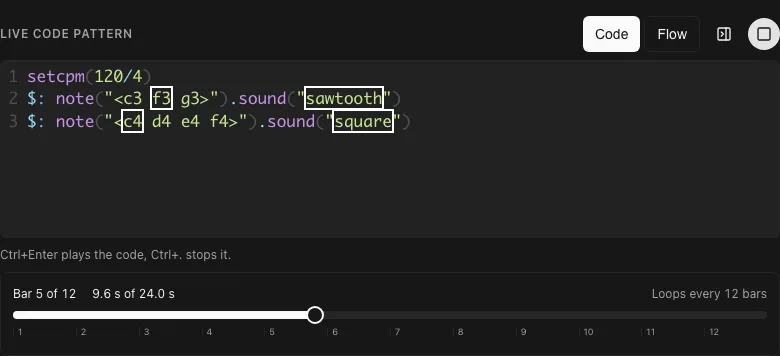
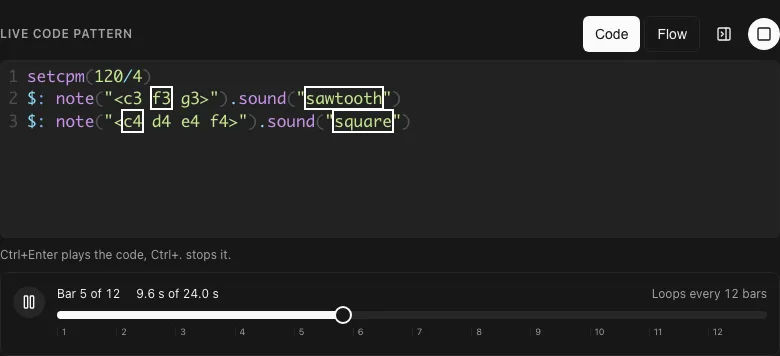
feat: pause button beside the Strudel timeline

diff --git a/src/views/Tools/StrudelEditor/timeline/StrudelTimeline.vue b/src/views/Tools/StrudelEditor/timeline/StrudelTimeline.vue
@@ -1,5 +1,7 @@
 <script setup lang="ts">
 import { computed } from 'vue'
+import { Pause, Play } from 'lucide-vue-next'
+import IconButton from '@/components/IconButton.vue'
 import { Slider } from '@/components/ui/slider'
 import { STRUDEL_TIMELINE_MAX_LOOP_BARS, STRUDEL_TIMELINE_SEEK_STEP } from '../config'
 
@@ -9,11 +11,24 @@ const props = defineProps<{
   cyclesPerSecond: number
   loopBars: number | null
   loopMeasured: boolean
+  isPlaying: boolean
 }>()
 
 const emit = defineEmits<{
   seek: [cycle: number]
+  play: []
+  pause: []
 }>()
+
+const playPauseLabel = computed(() => (props.isPlaying ? 'Pause' : 'Play from here'))
+
+const onPlayPausePressed = (): void => {
+  if (props.isPlaying) {
+    emit('pause')
+    return
+  }
+  emit('play')
+}
 
 const barStarts = computed(() =>
   Array.from({ length: props.timelineBars }, (_, barIndex) => ({
@@ -44,12 +59,24 @@ const onSliderMoved = (values: number[] | undefined): void => {
 
 <template>
   <section class="strudel-timeline" aria-label="Timeline">
+    <IconButton
+      class="strudel-timeline__play-pause"
+      size="md"
+      variant="outline"
+      :title="playPauseLabel"
+      :aria-label="playPauseLabel"
+      @click="onPlayPausePressed"
+    >
+      <Pause v-if="isPlaying" aria-hidden="true" />
+      <Play v-else aria-hidden="true" />
+    </IconButton>
     <p class="strudel-timeline__readout">
       <span>Bar {{ Math.floor(playheadCycle) + 1 }} of {{ timelineBars }}</span>
       <span>{{ formatSeconds(playheadCycle) }} s of {{ formatSeconds(timelineBars) }} s</span>
       <span class="strudel-timeline__loop">{{ loopLabel }}</span>
     </p>
     <Slider
+      class="strudel-timeline__track"
       :model-value="[playheadCycle]"
       :min="0"
       :max="timelineBars"
@@ -72,15 +99,30 @@ const onSliderMoved = (values: number[] | undefined): void => {
 
 <style scoped>
 .strudel-timeline {
-  display: flex;
-  flex-direction: column;
-  gap: var(--spacing-2);
+  display: grid;
+  grid-template-columns: max-content minmax(0, 1fr);
+  grid-template-areas:
+    'play-pause readout'
+    'play-pause track'
+    '. bars';
+  align-items: center;
+  gap: var(--spacing-2) var(--spacing-3);
   padding: var(--spacing-3);
   border: 1px solid var(--color-border);
   border-radius: var(--radius-lg);
 }
 
+.strudel-timeline__play-pause {
+  grid-area: play-pause;
+  border-radius: var(--radius-full);
+}
+
+.strudel-timeline__track {
+  grid-area: track;
+}
+
 .strudel-timeline__readout {
+  grid-area: readout;
   display: flex;
   flex-wrap: wrap;
   gap: var(--spacing-1) var(--spacing-4);
@@ -96,6 +138,7 @@ const onSliderMoved = (values: number[] | undefined): void => {
 }
 
 .strudel-timeline__bars {
+  grid-area: bars;
   position: relative;
   height: var(--spacing-4);
   margin: 0;

diff --git a/src/views/Tools/StrudelEditor/timeline/useStrudelTimeline.ts b/src/views/Tools/StrudelEditor/timeline/useStrudelTimeline.ts
@@ -28,6 +28,8 @@ type StrudelTimelineState = {
   applyStartCycle: () => void
   /** Reads the loop and tempo of the pattern that just started or updated. */
   measurePlayedPattern: () => void
+  /** Makes where playback is now the start, so stopping there is a pause that Play resumes. */
+  holdPlayingPosition: () => void
 }
 
 /**
@@ -101,6 +103,14 @@ export const useStrudelTimeline = (hooks: StrudelTimelineHooks): StrudelTimeline
     cyclesPerSecond.value = playback.readPosition().cyclesPerSecond
   }
 
+  const holdPlayingPosition = (): void => {
+    const position = hooks.getPlayback()?.readPosition()
+    if (position !== undefined) {
+      startCycle.value = position.cycle
+      playheadCycle.value = wrapIntoTimeline(position.cycle)
+    }
+  }
+
   return {
     startCycle,
     playheadCycle,
@@ -110,6 +120,7 @@ export const useStrudelTimeline = (hooks: StrudelTimelineHooks): StrudelTimeline
     timelineBars,
     seekToCycle,
     applyStartCycle,
-    measurePlayedPattern
+    measurePlayedPattern,
+    holdPlayingPosition
   }
 }

diff --git a/src/views/Tools/StrudelEditor/StrudelEditor.vue b/src/views/Tools/StrudelEditor/StrudelEditor.vue
@@ -70,7 +70,8 @@ const {
   cyclesPerSecond,
   loopBars,
   loopMeasured,
-  seekToCycle
+  seekToCycle,
+  holdPlayingPosition
 } = useStrudelEditor()
 
 const {
@@ -219,6 +220,12 @@ const onStopRequested = (): void => {
   void stopPattern()
 }
 
+// A pause is a stop that keeps where it was, so the next Play carries on from there.
+const onPauseRequested = (): void => {
+  holdPlayingPosition()
+  onStopRequested()
+}
+
 // One button above the editor: Play when idle, Stop while playing, and Update once the code has
 // changed since it started, which swaps the old pattern for the new one.
 const playButtonAction = computed(() => {
@@ -352,7 +359,10 @@ onBeforeUnmount(() => {
         :cycles-per-second="cyclesPerSecond"
         :loop-bars="loopBars"
         :loop-measured="loopMeasured"
+        :is-playing="editorStatus === 'playing'"
         @seek="seekToCycle"
+        @play="onPlayRequested"
+        @pause="onPauseRequested"
       />
     </section>
 

diff --git a/src/views/Tools/StrudelEditor/useStrudelEditor.test.ts b/src/views/Tools/StrudelEditor/useStrudelEditor.test.ts
@@ -961,6 +961,29 @@ describe('useStrudelEditor', () => {
     expect(loopBars.value).toBe(2)
   })
 
+  it('pauses at the playing position and resumes from it on the next Play', async () => {
+    // Arrange
+    const playback = {
+      ...buildSuccessfulPlayback(),
+      readPosition: vi.fn(() => ({ cycle: 6.5, cyclesPerSecond: 0.5 }))
+    }
+    const { playPattern, stopPattern, holdPlayingPosition, editorStatus } = useStrudelEditor({
+      initialExamples: buildExampleList(),
+      playbackLoader: async () => playback
+    })
+    await playPattern()
+
+    // Act
+    holdPlayingPosition()
+    await stopPattern()
+    await playPattern()
+
+    // Assert
+    expect(playback.stopPlayback).toHaveBeenCalledTimes(1)
+    expect(playback.seekToCycle).toHaveBeenLastCalledWith(6.5)
+    expect(editorStatus.value).toBe('playing')
+  })
+
   it('stops playback and returns to idle', async () => {
     // Arrange
     const playback = buildSuccessfulPlayback()

diff --git a/src/views/Tools/StrudelEditor/timeline/useStrudelTimeline.test.ts b/src/views/Tools/StrudelEditor/timeline/useStrudelTimeline.test.ts
@@ -129,6 +129,20 @@ describe('useStrudelTimeline', () => {
     expect(timeline.playheadCycle.value).toBe(1.5)
   })
 
+  it('holds the playing position as the start, so a pause resumes where it left off', () => {
+    // Arrange
+    const playback = buildPlayback(6.5, 4)
+    const { timeline } = buildTimeline(playback, 'playing')
+    timeline.measurePlayedPattern()
+
+    // Act
+    timeline.holdPlayingPosition()
+
+    // Assert
+    expect(timeline.startCycle.value).toBe(6.5)
+    expect(timeline.playheadCycle.value).toBe(2.5)
+  })
+
   it('returns the playhead to the start cycle when playback stops', async () => {
     // Arrange
     const playback = buildPlayback(2.25, 4)

diff --git a/documentation/docs/guides/strudel-editor.md b/documentation/docs/guides/strudel-editor.md
@@ -125,8 +125,12 @@ A timeline runs along the bottom of the left side, under the code editor or the 
 shows where the pattern is in its loop: the bar, the time in seconds and the loop's length. Its
 playhead follows the sound while the pattern plays.
 
-![Two instruments playing from bar 5: the timeline reads Bar 5 of 12 and Loops every 12 bars, and the boxed notes are the fifth bar's](/img/strudel-editor/timeline.webp)
+![Two instruments playing from bar 5: the Pause button beside the timeline, which reads Bar 5 of 12 and Loops every 12 bars, and the boxed notes are the fifth bar's](/img/strudel-editor/timeline.webp)
 
+- **The button beside it** plays from the picked time and, while the pattern plays, pauses it.
+  A pause stops the sound where it is and makes that the picked time, so the next Play, here or
+  above the editor, carries on from there. Stop above the editor goes back to the picked time
+  instead.
 - **Click or drag** the timeline to pick a time. While the pattern plays it carries on from there;
   while it is stopped, the next Play starts there. Stop puts the playhead back on the picked time.
   The arrow keys move it once the playhead has focus.
